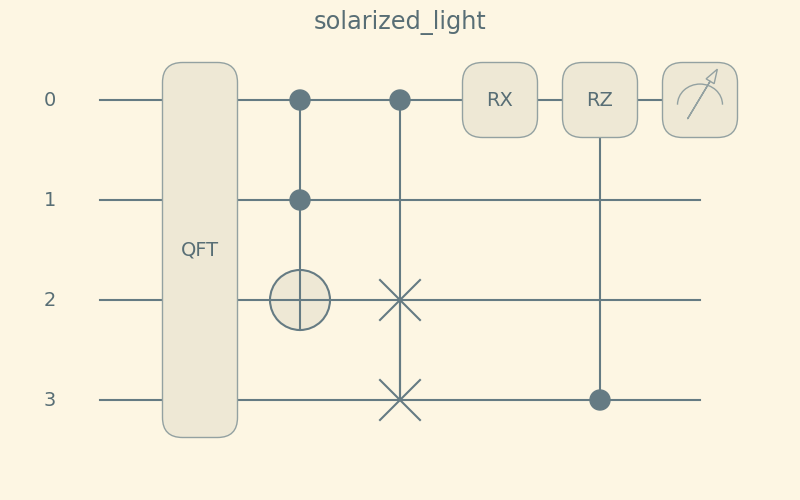
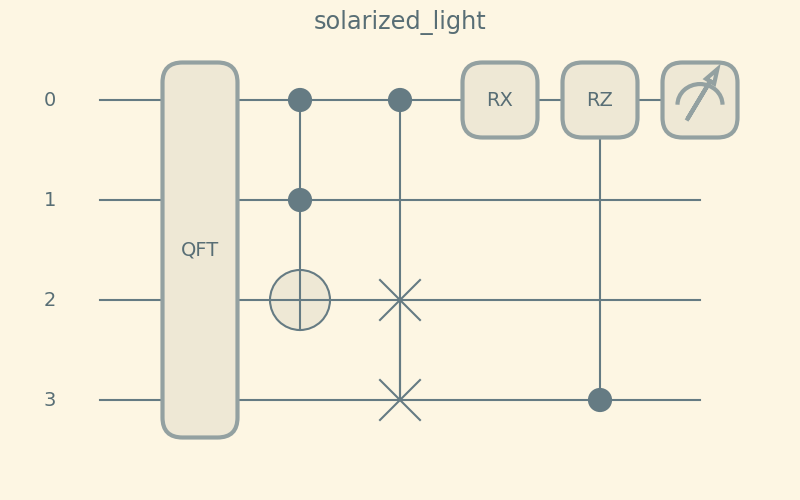
Add pennylane drawer style [unitaryhack] (#2709)
* add pennylane_drawer_style

* naming

* pylint

* black

* changelog

* naming, new colors for dark

* remove patheffects import

* coverage

* coverage

* Update doc/releases/changelog-dev.md

diff --git a/tests/drawer/test_style.py b/tests/drawer/test_style.py
@@ -27,6 +27,8 @@ def test_available_styles():
     assert qml.drawer.available_styles() == (
         "black_white",
         "black_white_dark",
+        "sketch",
+        "sketch_dark",
         "solarized_light",
         "solarized_dark",
         "default",
@@ -37,13 +39,76 @@ def test_black_white_style():
     """Tests the black white style sets ``plt.rcParams`` with correct values"""
 
     qml.drawer.use_style("black_white")
-    assert plt.rcParams["patch.linewidth"] == 3.0
+    assert plt.rcParams["savefig.facecolor"] == "white"
+    assert plt.rcParams["figure.facecolor"] == "white"
+    assert plt.rcParams["axes.facecolor"] == "white"
     assert plt.rcParams["patch.facecolor"] == "white"
     assert plt.rcParams["patch.edgecolor"] == "black"
+    assert plt.rcParams["patch.linewidth"] == 3.0
     assert plt.rcParams["patch.force_edgecolor"]  # = True
     assert plt.rcParams["lines.color"] == "black"
     assert plt.rcParams["text.color"] == "black"
+    assert plt.rcParams["path.sketch"] == None
 
+    plt.style.use("default")
+
+
+def test_black_white_style_dark():
+    """Tests the black white style dark sets ``plt.rcParams`` with correct values"""
+
+    qml.drawer.use_style("black_white_dark")
+
+    almost_black = "#151515"
+    assert plt.rcParams["savefig.facecolor"] == almost_black
+    assert plt.rcParams["figure.facecolor"] == almost_black
+    assert plt.rcParams["axes.facecolor"] == almost_black
+    assert plt.rcParams["patch.edgecolor"] == "white"
+    assert plt.rcParams["patch.facecolor"] == almost_black
+    assert plt.rcParams["patch.force_edgecolor"]  # = True
+    assert plt.rcParams["lines.color"] == "white"
+    assert plt.rcParams["text.color"] == "white"
+    assert plt.rcParams["path.sketch"] == None
+
+    plt.style.use("default")
+
+
+def test_sketch_style():
+    """Tests the sketch style sets ``plt.rcParams`` with correct values"""
+
+    qml.drawer.use_style("sketch")
+
+    assert plt.rcParams["figure.facecolor"] == "white"
+    assert plt.rcParams["savefig.facecolor"] == "white"
+    assert plt.rcParams["axes.facecolor"] == "#D6F5E2"
+    assert plt.rcParams["patch.facecolor"] == "#FFEED4"
+    assert plt.rcParams["patch.edgecolor"] == "black"
+    assert plt.rcParams["patch.linewidth"] == 3.0
+    assert plt.rcParams["patch.force_edgecolor"]  # = True
+    assert plt.rcParams["lines.color"] == "black"
+    assert plt.rcParams["text.color"] == "black"
+    assert plt.rcParams["font.weight"] == "bold"
+    assert plt.rcParams["path.sketch"] == (1, 100, 2)
+
+    plt.style.use("default")
+
+
+def test_sketch_style_dark():
+    """Tests the sketch style dark sets ``plt.rcParams`` with correct values"""
+
+    qml.drawer.use_style("sketch_dark")
+
+    almost_black = "#151515"  # less harsh than full black
+    assert plt.rcParams["figure.facecolor"] == almost_black
+    assert plt.rcParams["savefig.facecolor"] == almost_black
+    assert plt.rcParams["axes.facecolor"] == "#EBAAC1"
+    assert plt.rcParams["patch.facecolor"] == "#B0B5DC"
+    assert plt.rcParams["patch.edgecolor"] == "white"
+    assert plt.rcParams["patch.linewidth"] == 3.0
+    assert plt.rcParams["patch.force_edgecolor"]  # = True
+    assert plt.rcParams["lines.color"] == "white"
+    assert plt.rcParams["text.color"] == "white"
+    assert plt.rcParams["font.weight"] == "bold"
+    assert plt.rcParams["path.sketch"] == (1, 100, 2)
     plt.style.use("default")
 
 
@@ -60,6 +125,7 @@ def test_solarized_light_style():
     assert plt.rcParams["lines.color"] == "#657b83"
     assert plt.rcParams["text.color"] == "#586e75"
     assert plt.rcParams["patch.force_edgecolor"]  # = True
+    assert plt.rcParams["path.sketch"] == None
 
     plt.style.use("default")
 
@@ -77,6 +143,7 @@ def test_solarized_dark_style():
     assert plt.rcParams["lines.color"] == "#839496"
     assert plt.rcParams["text.color"] == "#2aa198"
     assert plt.rcParams["patch.force_edgecolor"]  # = True
+    assert plt.rcParams["path.sketch"] == None
 
     plt.style.use("default")
 
@@ -93,23 +160,6 @@ def test_default():
 
     # make sure dictionaries are the same
     assert sum(1 for key, value in initial.items() if new[key] != value) == 0
-
-
-def test_black_white_style_dark():
-    """Tests the black white style dark sets ``plt.rcParams`` with correct values"""
-
-    qml.drawer.use_style("black_white_dark")
-
-    almost_black = "#151515"
-    assert plt.rcParams["figure.facecolor"] == almost_black
-    assert plt.rcParams["axes.facecolor"] == almost_black
-    assert plt.rcParams["patch.edgecolor"] == "white"
-    assert plt.rcParams["patch.facecolor"] == almost_black
-    assert plt.rcParams["patch.force_edgecolor"]
-    assert plt.rcParams["lines.color"] == "white"
-    assert plt.rcParams["text.color"] == "white"
-
-    plt.style.use("default")
 
 
 def test_style_none_error():

diff --git a/pennylane/drawer/style.py b/pennylane/drawer/style.py
@@ -50,12 +50,15 @@ def _black_white():
     modifies ``plt.rcParams``.
     """
     plt.rcParams["savefig.facecolor"] = "white"
+    plt.rcParams["figure.facecolor"] = "white"
+    plt.rcParams["axes.facecolor"] = "white"
     plt.rcParams["patch.facecolor"] = "white"
     plt.rcParams["patch.edgecolor"] = "black"
     plt.rcParams["patch.linewidth"] = 3.0
     plt.rcParams["patch.force_edgecolor"] = True
     plt.rcParams["lines.color"] = "black"
     plt.rcParams["text.color"] = "black"
+    plt.rcParams["path.sketch"] = None
 
 
 @_needs_mpl
@@ -70,6 +73,7 @@ def _black_white_dark():
     plt.rcParams["patch.force_edgecolor"] = True
     plt.rcParams["lines.color"] = "white"
     plt.rcParams["text.color"] = "white"
+    plt.rcParams["path.sketch"] = None
 
 
 @_needs_mpl
@@ -86,6 +90,7 @@ def _solarized_light():
     plt.rcParams["lines.color"] = "#657b83"
     plt.rcParams["text.color"] = "#586e75"
     plt.rcParams["patch.force_edgecolor"] = True
+    plt.rcParams["path.sketch"] = None
 
 
 @_needs_mpl
@@ -102,11 +107,51 @@ def _solarized_dark():
     plt.rcParams["lines.color"] = "#839496"
     plt.rcParams["text.color"] = "#2aa198"
     plt.rcParams["patch.force_edgecolor"] = True
+    plt.rcParams["path.sketch"] = None
+
+
+@_needs_mpl
+def _sketch():
+    """Apply the sketch style to matplotlib's configuration. This function
+    modifies ``plt.rcParams``.
+    """
+    plt.rcParams["figure.facecolor"] = "white"
+    plt.rcParams["savefig.facecolor"] = "white"
+    plt.rcParams["axes.facecolor"] = "#D6F5E2"
+    plt.rcParams["patch.facecolor"] = "#FFEED4"
+    plt.rcParams["patch.edgecolor"] = "black"
+    plt.rcParams["patch.linewidth"] = 3.0
+    plt.rcParams["patch.force_edgecolor"] = True
+    plt.rcParams["lines.color"] = "black"
+    plt.rcParams["text.color"] = "black"
+    plt.rcParams["font.weight"] = "bold"
+    plt.rcParams["path.sketch"] = (1, 100, 2)
+
+
+@_needs_mpl
+def _sketch_dark():
+    """Apply the sketch dark style to matplotlib's configuration. This function
+    modifies ``plt.rcParams``.
+    """
+    almost_black = "#151515"  # less harsh than full black
+    plt.rcParams["figure.facecolor"] = almost_black
+    plt.rcParams["savefig.facecolor"] = almost_black
+    plt.rcParams["axes.facecolor"] = "#EBAAC1"
+    plt.rcParams["patch.facecolor"] = "#B0B5DC"
+    plt.rcParams["patch.edgecolor"] = "white"
+    plt.rcParams["patch.linewidth"] = 3.0
+    plt.rcParams["patch.force_edgecolor"] = True
+    plt.rcParams["lines.color"] = "white"
+    plt.rcParams["text.color"] = "white"
+    plt.rcParams["font.weight"] = "bold"
+    plt.rcParams["path.sketch"] = (1, 100, 2)
 
 
 _styles_map = {
     "black_white": _black_white,
     "black_white_dark": _black_white_dark,
+    "sketch": _sketch,
+    "sketch_dark": _sketch_dark,
     "solarized_light": _solarized_light,
     "solarized_dark": _solarized_dark,
     "default": _needs_mpl(lambda: plt.style.use("default")),

diff --git a/doc/code/qml_drawer.rst b/doc/code/qml_drawer.rst
@@ -51,6 +51,12 @@ Currently Available Styles
 .. |bwd| image:: ../_static/style/black_white_dark_style.png
     :width: 100%
 
+.. |sks| image:: ../_static/style/sketch_style.png
+    :width: 100%
+
+.. |skd| image:: ../_static/style/sketch_dark_style.png
+    :width: 100%
+
 .. |sol| image:: ../_static/style/solarized_light_style.png
     :width: 100%
 
@@ -61,7 +67,9 @@ Currently Available Styles
     :width: 100%
 
 +-----+-----+-----+
-+|bws|+|bwd|+|sol|+
++|bws|+|bwd|+|sks|+
 +-----+-----+-----+
-+|sod|+|def|+     +
++|skd|+|sol|+|sod|+
++-----+-----+-----+
++|def|+     +     +
 +-----+-----+-----+

diff --git a/doc/releases/changelog-dev.md b/doc/releases/changelog-dev.md
@@ -39,6 +39,9 @@
   >>> print(energy)
   -1.1258709813834058
   ```
+  
+* New PennyLane-inspired `sketch` and `sketch_dark` styles are now available for drawing circuit diagram graphics. 
+  [(#2709)](https://github.com/PennyLaneAI/pennylane/pull/2709)
 
 <h3>Improvements</h3>
 
